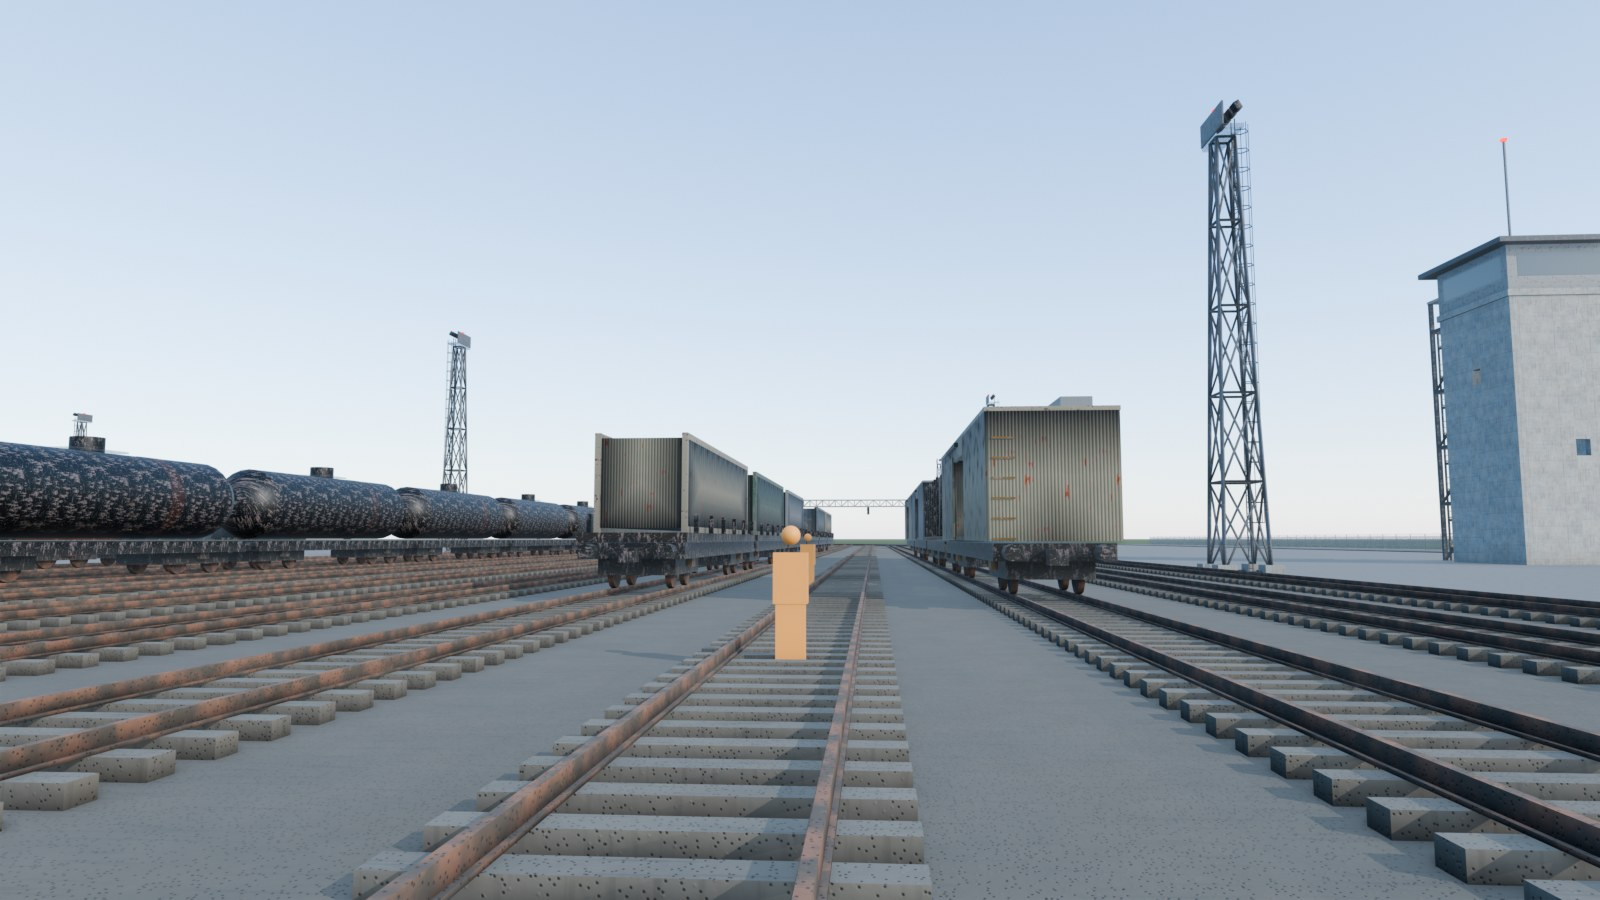
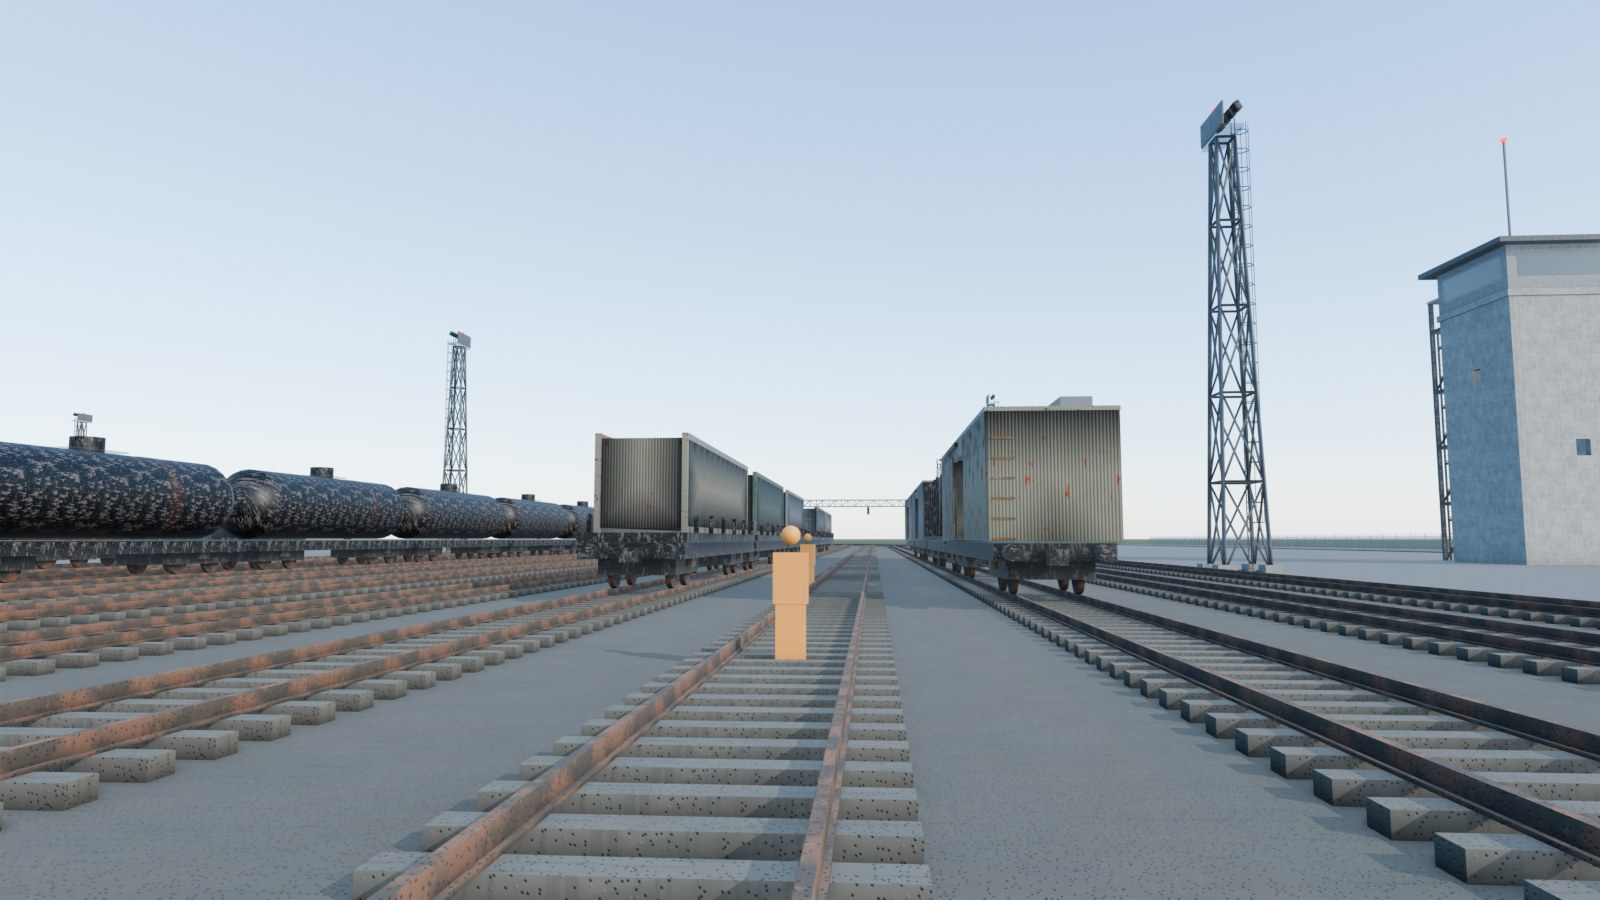
Monuments: lighter track piece (track-10 from 508 to 228 triangles)
The Freight Yard places about a thousand track-10 instances; its sleepers and rails are now one
mesh each (no subdivision), which halves the instanced load (about 230k instead of 510k
triangles at LOD0) with the same look. parts_large gains boxes_mesh for such repeated parts.
Freight Yard renders redone.

diff --git a/art/monuments/monkit/parts_large.py b/art/monuments/monkit/parts_large.py
@@ -1234,14 +1234,28 @@ RAIL_TOP = 0.62
 WHEEL_R = 0.46
 
 
+def boxes_mesh(b, boxes, **kw):
+    """Several axis-aligned boxes, each (centre x, y, z, size x, y, z), as one mesh primitive: no subdivision and
+    one tint, for parts repeated thousands of times (track)."""
+    verts, faces = [], []
+    for cx, cy, cz, sx, sy, sz in boxes:
+        hx, hy, hz = sx / 2, sy / 2, sz / 2
+        base = len(verts)
+        verts += [(cx - hx, cy - hy, cz - hz), (cx + hx, cy - hy, cz - hz), (cx + hx, cy + hy, cz - hz),
+                  (cx - hx, cy + hy, cz - hz), (cx - hx, cy - hy, cz + hz), (cx + hx, cy - hy, cz + hz),
+                  (cx + hx, cy + hy, cz + hz), (cx - hx, cy + hy, cz + hz)]
+        faces += [[base + i for i in f] for f in ([0, 3, 2, 1], [4, 5, 6, 7], [0, 1, 5, 4], [1, 2, 6, 5],
+                                                  [2, 3, 7, 6], [3, 0, 4, 7])]
+    return b.mesh(verts, faces, smooth=False, **kw)
+
+
 def _track_10(b):
-    """Ten metres of track on the ballast: fifteen concrete sleepers and two rails (standard gauge)."""
-    for k in range(15):
-        x = -5.0 + (k + 0.5) * 10.0 / 15
-        b.box((0.26, 2.5, 0.16), (x, 0, 0.38), mat=CONCRETE, tint=srgb(0.62, 0.60, 0.56), solid=False, vary=0.05)
-    for y in (-0.7535, 0.7535):
-        b.box((10.0, 0.07, 0.16), (0, y, 0.54), mat=RUST, tint=(1, 1, 1), solid=False)
-        b.box((10.0, 0.14, 0.03), (0, y, 0.475), mat=RUST, tint=(1, 1, 1), solid=False)
+    """Ten metres of track on the ballast: fifteen concrete sleepers and two rails (standard gauge), each set one
+    mesh so the piece stays light (a yard places a thousand of them)."""
+    boxes_mesh(b, [(-5.0 + (k + 0.5) * 10.0 / 15, 0.0, 0.38, 0.26, 2.5, 0.16) for k in range(15)], mat=CONCRETE,
+               tint=srgb(0.62, 0.60, 0.56), solid=False)
+    boxes_mesh(b, [(0.0, y, 0.54, 10.0, 0.07, 0.16) for y in (-0.7535, 0.7535)] +
+               [(0.0, y, 0.475, 10.0, 0.14, 0.03) for y in (-0.7535, 0.7535)], mat=RUST, tint=(1, 1, 1), solid=False)
 
 
 def _bogie(b, x, axles=2):
